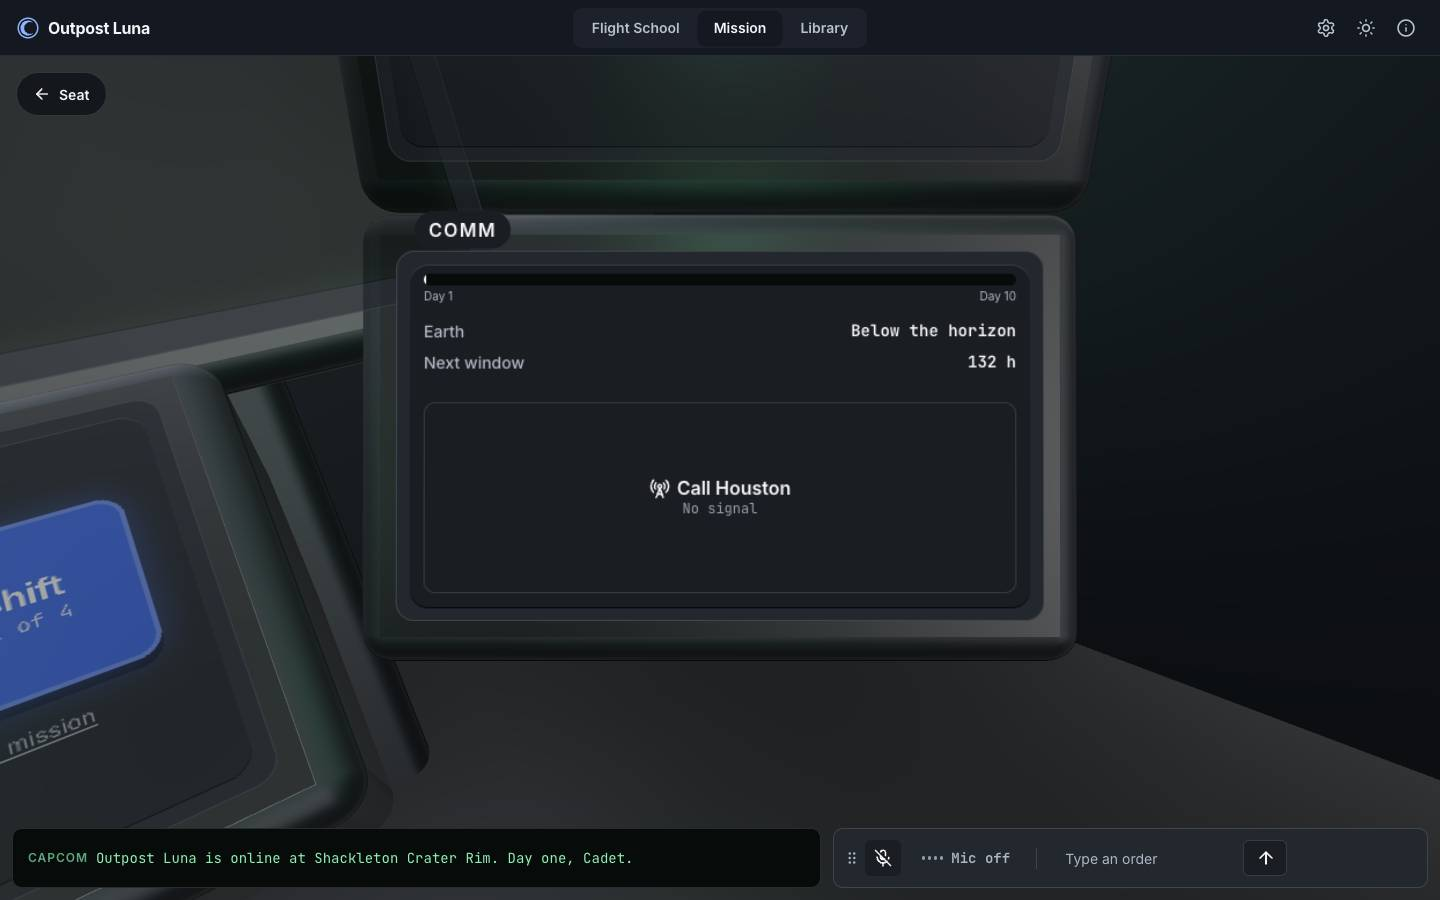
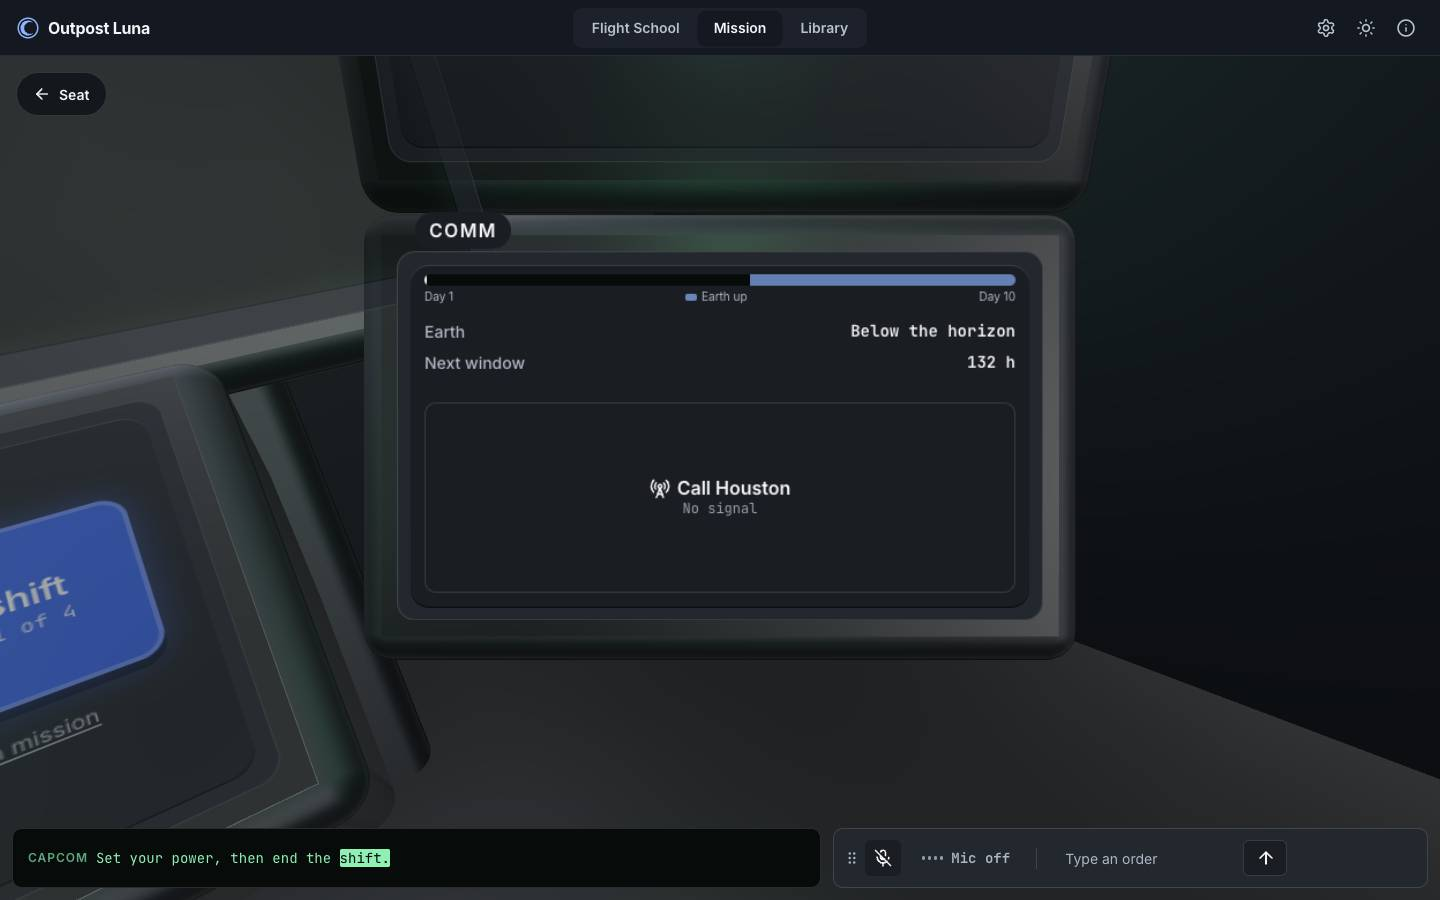
Mission: comm timeline from GET /api/mission/{mid}/windows (sim's own Earth/Sun rule), PV-panel array (cell grid, sheen, matte frame), handsfree_run prints HANDSFREE RESULT: PASS|FAIL and exits 1 on fail

diff --git a/frontend/src/mission/cabin.js b/frontend/src/mission/cabin.js
@@ -280,7 +280,7 @@ export function createCabin(root, o = {}) {
   }
   const PANEL_ORDER = ["habitat", "rover", "power", "displays", "radiation", "comm", "pedestal"];
   function stepPanel(d) { if (!c3) return; const i = PANEL_ORDER.indexOf(c3.panel); c3.open(PANEL_ORDER[(i + d + PANEL_ORDER.length) % PANEL_ORDER.length]); }
-  let cueT = null;
+  let cueT = null, wins = null;   // wins: {hours, earth: [[s, e]], sun: [[s, e]]} from /api/mission/{id}/windows
   function applyCue(move) {
     root.querySelectorAll(".is-cue").forEach(n => n.classList.remove("is-cue")); if (!cueT) return null;
     const [k, v] = String(cueT).split(":");
@@ -312,8 +312,9 @@ export function createCabin(root, o = {}) {
       const x = 20 + out * 160, y = 40 - Math.sin(out * Math.PI) * 18;
       rt.innerHTML = `<path class="r-line" d="M20 40 Q100 4 180 40"/><circle class="r-base" cx="20" cy="40" r="6"/><circle class="r-goal" cx="180" cy="40" r="6"/>
         <circle class="r-rover${rv.busy ? " is-on" : ""}" cx="${x.toFixed(1)}" cy="${y.toFixed(1)}" r="5"/><text x="20" y="60">Base</text><text x="180" y="60" text-anchor="end">${rv.task === "explore" ? "Cabeus" : "Ice"}</text>`; }
-    const tl = q("#cbCommTl"); if (tl) { const W = s.env.comm_windows || s.comm_windows || null, t = (s.mission_time_h || 0) / 240;
-      tl.innerHTML = `<div class="tl-bar">${W ? W.map(w => `<i style="left:${w.start_h / 2.4}%;width:${(w.end_h - w.start_h) / 2.4}%"></i>`).join("") : `<i class="${e.earth_visible ? "" : "is-off"}" style="left:0;width:${clamp(t * 100)}%"></i>`}<em style="left:${clamp(t * 100)}%"></em></div><span>Day 1</span><span>Day 10</span>`; }
+    const tl = q("#cbCommTl"); if (tl) { const H = (wins && wins.hours) || 240, t = (s.mission_time_h || 0) / H, E = wins ? wins.earth : null;
+      tl.innerHTML = E ? `<div class="tl-bar" role="img" aria-label="Earth in view ${E.map(([a, b]) => `from hour ${a} to ${b}`).join(", ") || "never"} of ${H}">${E.map(([a, b]) => `<i style="left:${(a / H * 100).toFixed(2)}%;width:${((b - a) / H * 100).toFixed(2)}%"></i>`).join("")}<em style="left:${clamp(t * 100)}%"></em></div>
+        <span>Day 1</span><span class="tl-key"><i></i>Earth up</span><span>Day 10</span>` : ""; tl.hidden = !E; }
     const ci = q("#cbInfoComm"); if (ci) ci.innerHTML = irow("Earth", e.earth_visible ? "In view" : "Below the horizon") + (!e.earth_visible && e.next_comm_window_h != null ? irow("Next window", `${e.next_comm_window_h} h`) : "")
       + (e.earth_visible ? irow("Radio delay", `${((e.comm_delay_s || 2.6) / 2).toFixed(1)} s each way`) : "") + (s.science_waiting != null ? irow("Science to send", Math.round(s.science_waiting)) : "");
     const fc = q("#cbFc"), F = s.forecasts || null;
@@ -417,6 +418,8 @@ export function createCabin(root, o = {}) {
     nextPanel: () => stepPanel(1), prevPanel: () => stepPanel(-1), get panel() { return c3 ? c3.panel : null }, get is3d() { return !!c3; }, get fps() { return c3 ? c3.fps : null; },
     dispose() { if (c3) c3.dispose(); qualityOff(); if (ownTv) { ownTv.hide(); ownTv.dispose(); ownTv = null; } },
     setQuality: q => c3 && c3.setQuality(q),
+    /** The mission's Earth/Sun spans (client.windows) for the Comm timeline. */
+    setWindows(w) { wins = w || null; if (st) paintInfo(st); },
     /** Highlight one control at a time (the check ride's next order): "heaters" | "science" | "shelter" | "shields" |
      *  "end_shift" | "houston" | "load:<key>" | "rover:<task>"; null clears. Opens its panel; returns the control. */
     cue(target) { cueT = target || null; return applyCue(true); },

diff --git a/frontend/src/mission/terrain.js b/frontend/src/mission/terrain.js
@@ -99,8 +99,19 @@ function outpost() {
   const mast = new THREE.Mesh(new THREE.CylinderGeometry(.25, .35, 22, 10), grey); mast.position.y = 11; array.add(mast);
   const wing = new THREE.Group(); wing.position.y = 13; array.add(wing);
   // cells on the sun side, a light substrate on the back and edges (a back-lit array read as a black box in the sky)
-  const back = new THREE.MeshStandardMaterial({ color: 0x9aa1a9, roughness: .7, metalness: .2 }), cellLit = cell.clone(); cellLit.emissive = new THREE.Color(0x10234a); cellLit.emissiveIntensity = .5;
-  [-4.4, 4.4].forEach(x => { const p = new THREE.Mesh(new THREE.BoxGeometry(8, 14, .12), [back, back, back, back, cellLit, back]); p.position.x = x; wing.add(p); });
+  // PV panels: a blue-black cell grid (a canvas texture, no glow) with a specular sheen, a light substrate on the back,
+  // and an aluminium frame, so the array reads as hardware in the window instead of a flat blue card.
+  const pvTex = (() => { const c = document.createElement("canvas"); c.width = 128; c.height = 224; const g = c.getContext("2d");
+    g.fillStyle = "#0a1220"; g.fillRect(0, 0, 128, 224); g.strokeStyle = "#24324a"; g.lineWidth = 2;
+    for (let x = 0; x <= 128; x += 16) { g.beginPath(); g.moveTo(x, 0); g.lineTo(x, 224); g.stroke(); }
+    for (let y = 0; y <= 224; y += 16) { g.beginPath(); g.moveTo(0, y); g.lineTo(128, y); g.stroke(); }
+    g.fillStyle = "rgba(120,150,200,.08)"; for (let x = 0; x < 128; x += 16) for (let y = 0; y < 224; y += 16) g.fillRect(x + 3, y + 3, 4, 4);
+    const t = new THREE.CanvasTexture(c); t.colorSpace = THREE.SRGBColorSpace; t.anisotropy = 4; return t; })();
+  const pv = new THREE.MeshStandardMaterial({ map: pvTex, color: 0xffffff, roughness: .18, metalness: .55, envMapIntensity: 1.2 });
+  const back = new THREE.MeshStandardMaterial({ color: 0x9aa1a9, roughness: .7, metalness: .2 });
+  const frameM = new THREE.MeshStandardMaterial({ color: 0x7d838a, roughness: .55, metalness: .6 });   // matte: no bloom halo
+  [-4.4, 4.4].forEach(x => { const p = new THREE.Mesh(new THREE.BoxGeometry(8, 14, .12), [back, back, back, back, pv, back]); p.position.x = x; wing.add(p);
+    [[0, 7, 8.2, .2], [0, -7, 8.2, .2], [4, 0, .2, 14.2], [-4, 0, .2, 14.2]].forEach(([fx, fy, fw, fh]) => { const f = new THREE.Mesh(new THREE.BoxGeometry(fw, fh, .2), frameM); f.position.set(x + fx, fy, 0); wing.add(f); }); });
   // comm dish aimed at Earth
   const dishM = new THREE.Group(); dishM.position.set(-12, 0, -6); g.add(dishM);
   const post = new THREE.Mesh(new THREE.CylinderGeometry(.15, .2, 4, 8), grey); post.position.y = 2; dishM.add(post);

diff --git a/frontend/src/mission/ui.js b/frontend/src/mission/ui.js
@@ -76,7 +76,7 @@ export function createMissionUI({ globe, card, placeById, say, alertSound, onCon
     };
     return tv;
   }
-  let fakeDebrief = null;   // dev-only: a debrief payload for screenshots of every outcome
+  let fakeDebrief = null, windows = null;   // dev-only: a debrief payload for screenshots of every outcome
   function fakeDb(outcome, extra) {
     const tl = []; for (let i = 1; i <= 40; i++) { const st = i >= 14 && i <= 16;
       tl.push({ t_h: i * 6, power: Math.max(5, 100 - (outcome === "failed" ? i * 2.4 : i * .4) - (st ? 8 : 0)), life_support: Math.max(4, 80 - (outcome === "failed" ? i * 1.9 : i * .3)),
@@ -271,6 +271,7 @@ export function createMissionUI({ globe, card, placeById, say, alertSound, onCon
     pushContext();
     showHud();
     if (session && !client.sample && session.onStart) session.onStart(state);   // [session hook]
+    windows = null; if (client.windows) client.windows(state.id).then(w => { windows = w; if (cockpit && cockpit.setWindows) cockpit.setWindows(w); }).catch(() => {});
     capcom({ say: CAPCOM.missionStart(callSign.shown(), site.name) });
     const first = !firstDone();
     Promise.resolve(say(CAPCOM.missionStart(callSign.spoken(), site.name))).catch(() => {}).then(() => { if (first && screen === "hud") { say(CAPCOM.firstShift); nudge.arm(); } });
@@ -305,6 +306,7 @@ export function createMissionUI({ globe, card, placeById, say, alertSound, onCon
     requestAnimationFrame(() => { const w = cabinEl.querySelector(".cb-hole") || cabinEl.querySelector(".cb-glass"), r = w && w.getBoundingClientRect(), sr = cabinEl.getBoundingClientRect();
       if (r && sr.height) globe.setViewport((r.bottom - sr.top) / sr.height); windowView(cockpit.view || "site"); });
     logHistory.forEach(l => cockpit.log(l.who, l.text));
+    if (windows && cockpit.setWindows) cockpit.setWindows(windows);
     render();
   }
   function render() {

diff --git a/frontend/src/cabin.css b/frontend/src/cabin.css
@@ -388,8 +388,11 @@ body:has(.cb-offer) .card .card-actions{display:none}
 .cb-route .r-base{fill:var(--color-on-space-2)} .cb-route .r-goal{fill:none;stroke:var(--color-lamp-info);stroke-width:2}
 .cb-route .r-rover{fill:var(--cb-text-2);transition:cx var(--dur-slow),cy var(--dur-slow)} .cb-route .r-rover.is-on{fill:var(--color-phosphor)}
 .cb-route text{font-family:var(--font-ui);font-size:10px;fill:var(--cb-text-2)}
-.cb-tl{display:grid;grid-template-columns:1fr 1fr;gap:2px 0;font-size:10px;color:var(--cb-text-2)}
+.cb-tl{display:grid;grid-template-columns:auto 1fr auto;gap:2px 0;font-size:10px;color:var(--cb-text-2)}
 .cb-tl span:last-child{text-align:right}
+.cb-tl[hidden]{display:none}
+.tl-key{justify-self:center;display:inline-flex;align-items:center;gap:4px}
+.tl-key i{width:10px;height:6px;border-radius:2px;background:color-mix(in srgb,var(--color-lamp-info) 70%,transparent)}
 .tl-bar{grid-column:1/-1;position:relative;height:10px;border-radius:5px;background:var(--color-display);overflow:hidden}
 .tl-bar i{position:absolute;top:0;bottom:0;background:color-mix(in srgb,var(--color-lamp-info) 70%,transparent)}
 .tl-bar i.is-off{background:var(--cb-line)}

diff --git a/frontend/src/mission/client.js b/frontend/src/mission/client.js
@@ -22,6 +22,8 @@ export async function createMissionClient() {
     command: (id, command) => post(`/api/mission/${enc(id)}/command`, { command }),
     advance: (id, shifts = 1) => post(`/api/mission/${enc(id)}/advance`, { shifts }),
     debrief: id => j(`/api/mission/${enc(id)}/debrief`),
+    /** Earth-up and Sun-up spans over the whole mission ([start_h, end_h]), by the sim's own rule. */
+    windows: id => j(`/api/mission/${enc(id)}/windows`),
     /** WS /ws/mission/{mid} telemetry; reconnects once a second while subscribed. */
     subscribe(id, fn) {
       let ws = null, stop = false, timer = null;

diff --git a/backend/app/mission/routes.py b/backend/app/mission/routes.py
@@ -58,6 +58,23 @@ def mission_state(mid: str):
     return sim.to_state(_mission(mid))
 
 
+@router.get("/api/mission/{mid}/windows")
+def mission_windows(mid: str):
+    """Read-only: when Earth and the Sun are up over the whole mission, hour by hour, by the sim's own rule (env_at),
+    as [start_h, end_h] spans. The cabin's Comm timeline and Power Sun strip draw these (Mission UX)."""
+    m = _mission(mid)
+    def spans(key):
+        out, start = [], None
+        for t in range(0, sim.MISSION_H + 1):
+            up = bool(sim.env_at(m, t)[key]) if t < sim.MISSION_H else False
+            if up and start is None:
+                start = t
+            elif not up and start is not None:
+                out.append([start, t]); start = None
+        return out
+    return {"hours": sim.MISSION_H, "earth": spans("earth_visible"), "sun": spans("in_sun")}
+
+
 @router.post("/api/mission/{mid}/command")
 def mission_command(mid: str, req: CommandReq):
     _mission(mid)

diff --git a/backend/tools/handsfree_run.py b/backend/tools/handsfree_run.py
@@ -436,6 +436,12 @@ async def main_live(a):
     await script(c, a.shifts)
     print(f"\nspoken 'I don't know that one yet': {c.unknowns()}   replies to noise: {c.replies_to_noise}   "
           f"qualified: {c.qualified}   mission: {c.mid}")
+    # one summary line a script (or a person) can check: no replies to noise, no fallback loop, the whole flow reached
+    fails = [k for k, bad in (("replies to noise", c.replies_to_noise), ("fallback spoken", c.unknowns()),
+                              ("not qualified", not c.qualified), ("no mission", not c.mid)) if bad]
+    print(f"HANDSFREE RESULT: {'PASS' if not fails else 'FAIL (' + ', '.join(fails) + ')'}", flush=True)
+    if fails:
+        raise SystemExit(1)
 
 
 if __name__ == "__main__":
